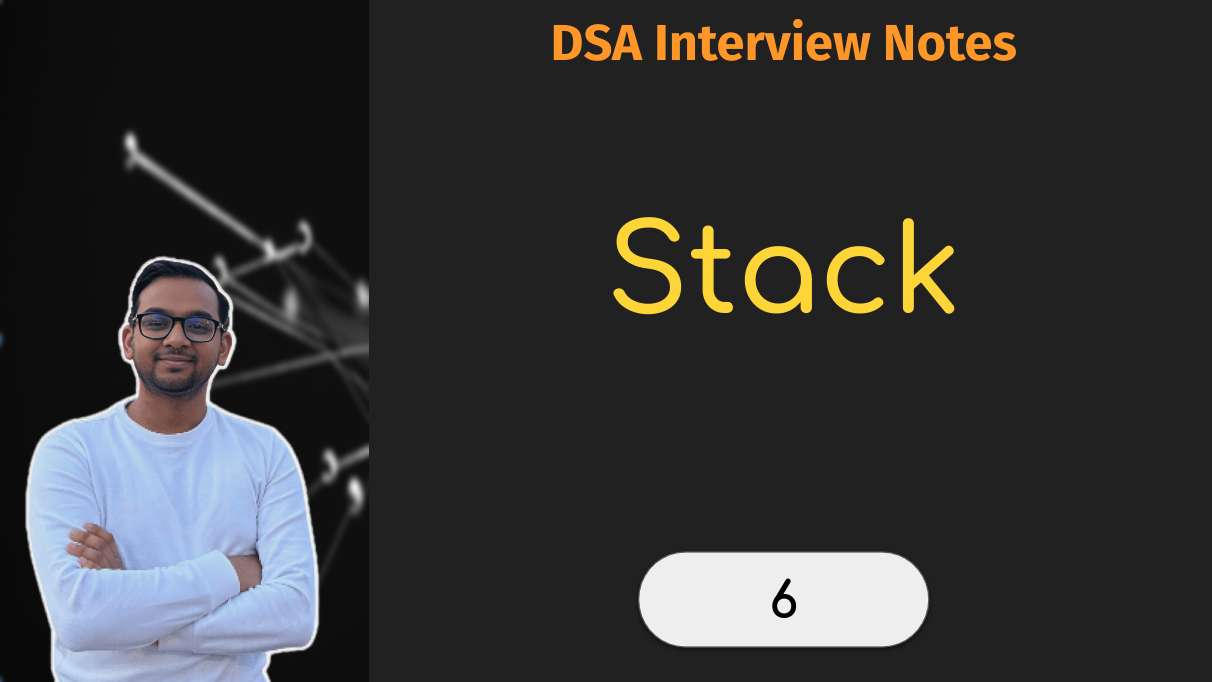
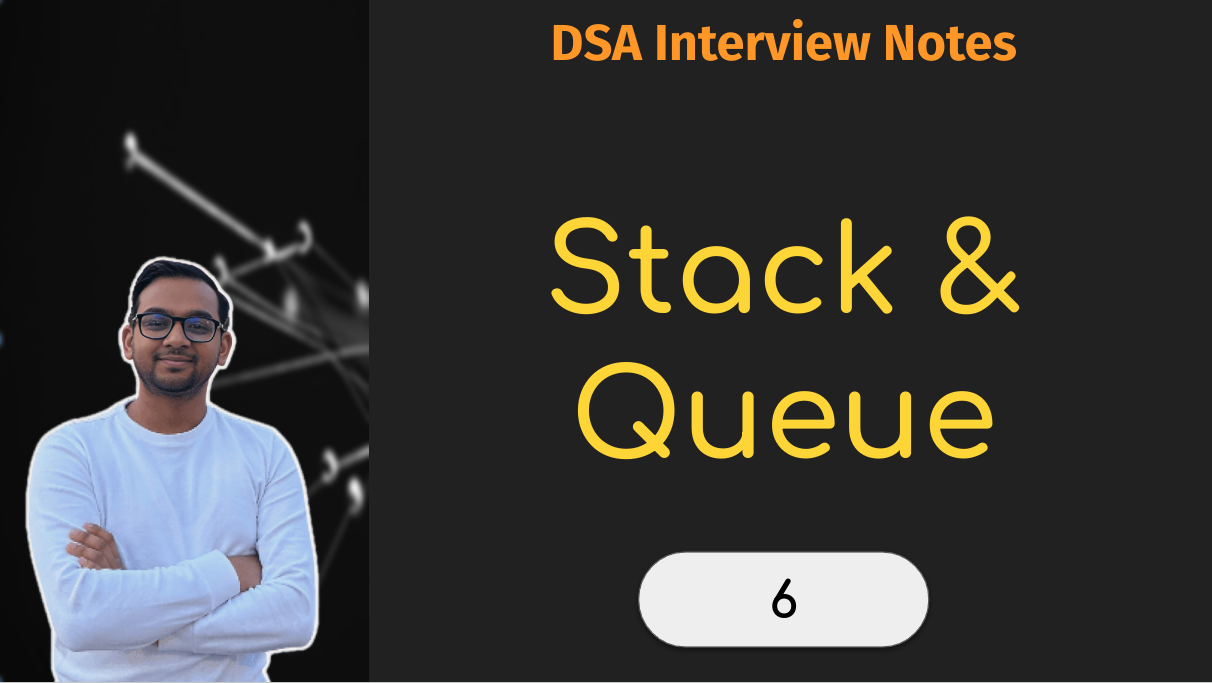
feat: blocg summaries

diff --git a/content/post/240309-dsa-notes-part-6.md b/content/post/240309-dsa-notes-part-6.md
@@ -1,18 +1,19 @@
 ---
-title: "DSA Interview Notes: Stack [Part 6]"
+title: "DSA Interview Notes: Stack & Queue [Part 6]"
 date: 2024-03-09T09:19:14+05:30
 draft: false
 tags: ["dsa", "interviews"]
 featured_image: /post/images/dsa-part6-bg.png
+summary: "Know when to make monotonic increasing/decreasing data structures"
 ---
 
 It is a data structure which follows the property of LIFO (last in First Out)
 
-- top() / peek() --> It returns you the top element from the stack in O(1) time complexity
-- pop() --> It deletes the top element from the stack in O(1) time complexity
-- push() --> It adds an element to the top of the stack in O(1) time complexity
-- size() --> It returns you the number of elements present in the stack
-- empty() --> It returns true if the stack is empty, otherwise false
+- `top()` or `peek()` --> It returns you the top element from the stack in O(1) time complexity
+- `pop()` --> It deletes the top element from the stack in O(1) time complexity
+- `push()` --> It adds an element to the top of the stack in O(1) time complexity
+- `size()` --> It returns you the number of elements present in the stack
+- `empty()` --> It returns true if the stack is empty, otherwise false
 
 Consider below intuitive points for solving problems:
 - During an interview Whenever you feel that you need to traverse backward as compared to current index location, in that case rather than nested loop (to go backward), think of the stack as a possible solution.
@@ -20,69 +21,28 @@ Consider below intuitive points for solving problems:
 - Stack may be used to reverse the string
 
 
-Let's solve few questions:
-- [Decode String](https://leetcode.com/problems/decode-string/)
+Let's solve [Next Greater Element II](https://leetcode.com/problems/next-greater-element-ii/) to understand how we can make a monotonic increasing stack and use it in various situations.
 
-    ```cpp
-    class Solution {
-    public:
-        string decodeString(string s) {
-            stack<int> nums;
-            stack<string> words;
-            int i = 0;
-            int n = s.length();
-            while (i < n) {
-                if (isdigit(s[i])) {
-                    int num = 0;
-                    while (i<n && isdigit(s[i])) {
-                        num = num*10 + (s[i++] - '0');
-                    }
-                    nums.push(num);
-                } else if (s[i]==']') {
-                    // decode
-                    string tmp;
-                    while (!words.empty() && words.top()!="[") {tmp += words.top(); words.pop();}
-                    if (words.top()=="[") words.pop();
-
-                    int num = nums.top(); nums.pop();
-                    string res;
-                    while (num--) res+=tmp;
-                    words.push(res);
-                    i++;
-                } else {
-                    words.push(string{s[i++]});
-                }
+```cpp
+class Solution {
+public:
+    vector<int> nextGreaterElements(vector<int>& nums) {
+        int n = nums.size();
+        vector<int> visited(n, false);
+        vector<int> ans(n, -1);
+        stack<int> st;
+        for (int i=0; i<2*n; ++i) {
+            while (!st.empty() && nums[st.top()] < nums[i%n]) {
+                int prev = st.top(); st.pop();
+                visited[prev]=true;
+                ans[prev] = nums[i%n];
             }
-            string ans = "";
-            while (!words.empty()) {ans+=words.top(); words.pop();}
-            reverse(ans.begin(), ans.end());
-            return ans;
+            st.push(i%n);
         }
-    };
-    ```
-
-- [Next Greater Element II](https://leetcode.com/problems/next-greater-element-ii/)
-
-    ```cpp
-    class Solution {
-    public:
-        vector<int> nextGreaterElements(vector<int>& nums) {
-            int n = nums.size();
-            vector<int> visited(n, false);
-            vector<int> ans(n, -1);
-            stack<int> st;
-            for (int i=0; i<2*n; ++i) {
-                while (!st.empty() && nums[st.top()] < nums[i%n]) {
-                    int prev = st.top(); st.pop();
-                    visited[prev]=true;
-                    ans[prev] = nums[i%n];
-                }
-                st.push(i%n);
-            }
-            return ans;
-        }
-    };
-    ```
+        return ans;
+    }
+};
+```
 
 You may encounter situations where you need to find next lexicographically greater permutation of the sequence, and you might use stack there. But it can be solved in O(1) and the idea is quite logical:
 1. Traverse from right to left and find the element which does not follow ascending order.
@@ -97,3 +57,53 @@ _Note: Sequence sorted in descending order does not have any next greater permua
 - [Steps to Make Array Non-decreasing](https://leetcode.com/problems/steps-to-make-array-non-decreasing/)
 - [Sum of Total Strength of Wizards](https://leetcode.com/problems/sum-of-total-strength-of-wizards)
 - [Car Fleet II](https://leetcode.com/problems/car-fleet-ii)
+
+
+## Queue
+
+It is a data structure which follows the logic of FIFO (First In First Out) that implies the element which has been inserted first into the queue will be the first element to get deleted from queue. It is generally implemented either using array or linkedlist.
+
+
+Let's see one of the most boring and popular question: [Implement queue using stack](https://leetcode.com/problems/implement-queue-using-stacks). The below idea uses auxiliary stack:
+1. Keep one stack S1 for push operations and another stack S2 for pop operations.
+2. Whenever there is a push operation, first transfer all elements from S2 to S1 if any and then push element on top of S1
+3. Whenever there is a pop operation, first transfer all elements from S1 to S2 if any and then pop the top element from S2.
+
+
+**Deque (Doubly ended queue)**: Deque is simply a doubly linked list that have pointers at both sides to implement following operations:
+
+- `push_front()`and `push_back()` --> These functions are used to push elements into a deque from the front and back respectively in O(1) time complexity
+- `pop_front()` and `pop_back()` --> These functions are used to delete elements from the front and back respectively in O(1) time complexity
+- `front()` and `back()` --> Refer to the first and last element respectively of the deque container.
+
+It is very hepful in finding [Sliding Window Maximum](https://leetcode.com/problems/sliding-window-maximum) which is important concept for many problems. Let's look at its implementation:
+```cpp
+class Solution {
+public:
+    vector<int> maxSlidingWindow(vector<int>& nums, int k) {
+        int n = nums.size();
+
+        // monotonic decreasing deque
+        deque<int> q;
+        vector<int> ans;
+        for (int i=0; i<n; ++i) {
+            // remove out of range elements from the front
+            while (!q.empty() && i-q.front()+1>k) q.pop_front();
+
+            // remove smaller elements from the back
+            while (!q.empty() && nums[q.back()] < nums[i]) q.pop_back();
+
+            // add element to the queue
+            q.push_back(i);
+
+            // update ans
+            if (i>=k-1) ans.push_back(nums[q.front()]);
+        }
+        return ans;
+    }
+};
+```
+
+Practice problems:
+- [Reveal Cards In Increasing Order](https://leetcode.com/problems/reveal-cards-in-increasing-order/)
+- [Design Front Middle Back Queue](https://leetcode.com/problems/design-front-middle-back-queue)

diff --git a/content/post/240303-dsa-notes-part-5.md b/content/post/240303-dsa-notes-part-5.md
@@ -4,9 +4,10 @@ date: 2024-03-03T09:07:05+05:30
 draft: false
 tags: ["dsa", "interviews"]
 featured_image: /post/images/dsa-part5-bg.png
+summary: "String: practice subsequences and parentheses question"
 ---
 
-String is a sequence of characters, so essentially it is an array. It is important to cover following techniques:
+String is a sequence of characters, so essentially it is an array. Questions can be tricky so practice as much as possible. Following techniques cover intervier's favorite questions:
 
 ## Palindrome
 
@@ -57,3 +58,4 @@ Practice problems:
 - [Minimum Deletions to Make String Balanced](https://leetcode.com/problems/minimum-deletions-to-make-string-balanced)
 - [Remove duplicate letters](https://leetcode.com/problems/remove-duplicate-letters)
 - [Evaluate Reverse Polish Notation](https://leetcode.com/problems/evaluate-reverse-polish-notation)
+- [Decode String](https://leetcode.com/problems/decode-string/)

diff --git a/content/post/240219-dsa-notes-part-2.md b/content/post/240219-dsa-notes-part-2.md
@@ -4,6 +4,7 @@ date: 2024-02-19T21:53:23+05:30
 draft: false
 tags: ["dsa", "interviews"]
 featured_image: /post/images/dsa-part2-bg.png
+summary: "Linked List: It's all about pointer manipulation"
 ---
 
 Linked List is a linear data structure in which elements are stored in nodes and each of the node contains the data and address or link or reference to the next node in the sequence.

diff --git a/content/post/240218-dsa-notes-part-1.md b/content/post/240218-dsa-notes-part-1.md
@@ -4,6 +4,7 @@ date: 2024-02-18T00:17:15+05:30
 draft: true
 tags: ["dsa", "interviews"]
 featured_image: /post/images/dsa-part1-bg.png
+summary: "Array: Sounds simple, yet involve variety of tricks"
 ---
 
 Array is a fundamental data structure which is used to store elements of same data type. In an array, elements are stored in contiguous memory location.

diff --git a/content/post/240224-dsa-notes-part-4.md b/content/post/240224-dsa-notes-part-4.md
@@ -4,6 +4,7 @@ date: 2024-02-24T20:05:50+05:30
 draft: false
 tags: ["dsa", "interviews"]
 featured_image: /post/images/dsa-part4-bg.png
+summary: "Matrix: Navigate grids extending concepts of traversal"
 ---
 
 Matrix is a two-dimensional array. Any problems related to matrix can be solved either via:

diff --git a/content/post/240211-dsa-notes-part-3.md b/content/post/240211-dsa-notes-part-3.md
@@ -4,6 +4,7 @@ date: 2024-02-11T20:01:57+05:30
 draft: false
 tags: ["dsa", "interviews"]
 featured_image: /post/images/dsa-part3-bg.png
+summary: "Binary Tree: Master BFS and DFS"
 ---
 
 Binary tree is a data structure in which each node has at most two children i.e. left and right child.
